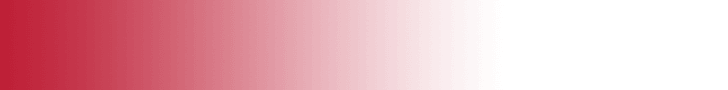
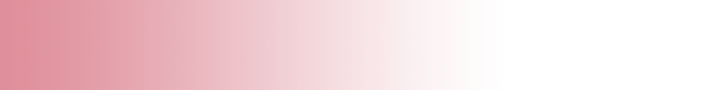
upload DSF_2017/Africa/728x90_EN_new

diff --git a/DSF_2017/Africa/728x90_EN_new/index.html b/DSF_2017/Africa/728x90_EN_new/index.html
@@ -8,15 +8,23 @@
     <script src="https://cdnjs.cloudflare.com/ajax/libs/gsap/1.18.0/TweenMax.min.js"></script>
     <link rel="stylesheet" href="styles.css" />
     <script type="text/javascript">
+    	var LENGTH = 10;
 	    var clickTag = '';
 
-	    var cft2 = [],
-	    	cft1 = [],
-	    	i = 0,
-	    	startTime = 0,
-	    	duration = 0,
-	    	lastLeft = 0,
-	    	lastTop = 0;
+	    var i = 0,
+	    		cftArr = [],
+	    		posArr = [
+	    			{x:130, y:60},
+	    			{x:187, y:-59},
+	    			{x:94, y:-59},
+	    			{x:84, y:60},
+	    			{x:129, y:55},
+	    			{x:208, y:27},
+	    			{x:77, y:10},
+	    			{x:171, y:32},
+	    			{x:56, y:24},
+	    			{x:98, y:12}
+	    		];
 
 	    var tl = new TimelineLite();
 
@@ -26,31 +34,26 @@
 
 	    function init() {
 
-	    	for (i=1; i<=7; i++) {
-	    		cft1[i-1] = document.getElementById('cft1_'+i);
+	    	for (i=0; i<LENGTH; i++) {
+	    		cftArr[i] = document.getElementById('confetti_'+ (i+1));
+	    		cftArr[i].style.left = posArr[i].x + 100 + 'px';
+	    		cftArr[i].style.top = posArr[i].y + 'px';
+	    		// cftArr[i].style.transform = "rotate(" + Math.round(Math.random()*120 - 60) + "deg)";
 	    	}
 
-	    	for (i=1; i<=22; i++) {
-	    		cft2[i-1] = document.getElementById('cft2_'+i);
+	    	tl.to(text1, 0.5, {autoAlpha: 1, ease: Power2.easeInOut})
+	    		.to(text1, 0.5, {autoAlpha: 0, delay: 2, ease: Power2.easeInOut})
+	    		.to(text2, 0.5, {autoAlpha: 1, left: 0, ease: Power2.easeInOut});
+
+	    	for (i=0; i<cftArr.length; i++) {
+          tl.to(cftArr[i], 0.5, {autoAlpha:0.8, scale:1, left:posArr[i].x, top:posArr[i].y, ease:Power2.easeOut}, '-=0.2');
+	    		tl.to(cftArr[i], 0.5, {rotation: 0, ease:Power2.easeOut}, '-=0.5');
 	    	}
 
-	    	tl.to(text1, 0.5, {autoAlpha: 1, ease: Power3.easeInOut})
-	    		.to(text1, 0.5, {autoAlpha: 0, delay: 2, ease: Power3.easeInOut})
-	    		.to(text2, 0.5, {autoAlpha: 1, left: 0, ease: Power3.easeInOut})
-	    		.to(text2, 0.5, {autoAlpha: 0, delay: 2, ease: Power3.easeInOut})
-	    		.to(mask, 0.5, {autoAlpha: 1, ease: Power3.easeInOut})
-	    		.to(logo, 0.5, {autoAlpha: 1, ease: Power3.easeInOut}, "+=1")
-	    		.to(text3, 0.5, {autoAlpha: 1, ease: Power3.easeInOut, onComplete:onLoop});
-
-
-	    	for (i=0; i<cft1.length; i++) {
-	    		tl.to(cft1[i], 0.2, {autoAlpha:1, ease: Power3.easeInOut}, (3.5 + 0.15*i));
-	    		tl.to(cft1[i], 0.2, {autoAlpha:0, ease: Power3.easeInOut}, (6));
-	    	}
-
-	    	for (i=0; i<cft2.length; i++) {
-	    		tl.to(cft2[i], 0.2, {autoAlpha:1, ease: Power3.easeInOut}, (6.5 + 0.15*i));
-	    	}
+	    	tl.to(text2, 0.5, {autoAlpha: 0, ease: Power2.easeInOut})
+	    		.to([mask,redBg], 0.5, {autoAlpha: 1, ease: Power2.easeInOut})
+	    		.to(logo, 0.5, {autoAlpha: 1, ease: Power3.easeInOut})
+	    		.to(text3, 0.5, {autoAlpha: 1, left:0, ease: Power2.easeInOut, onComplete:onLoop});
 	    }
 
 	    function restart() {
@@ -77,40 +80,18 @@
 <body>
     <div id="banner">
         <a class="click-tag" href="javascript:window.open(window.clickTag)" target="_blank">
+            <div id="redBg" class="layer"></div>
+            <div id="confetti_1" class="confetties"><img src="confetti_1.png"></div>
+            <div id="confetti_2" class="confetties"><img src="confetti_2.png"></div>
+            <div id="confetti_3" class="confetties"><img src="confetti_3.png"></div>
+            <div id="confetti_4" class="confetties"><img src="confetti_4.png"></div>
+            <div id="confetti_5" class="confetties"><img src="confetti_5.png"></div>
+            <div id="confetti_6" class="confetties"><img src="confetti_6.png"></div>
+            <div id="confetti_7" class="confetties"><img src="confetti_7.png"></div>
+            <div id="confetti_8" class="confetties"><img src="confetti_8.png"></div>
+            <div id="confetti_9" class="confetties"><img src="confetti_9.png"></div>
+            <div id="confetti_10" class="confetties"><img src="confetti_10.png"></div>
             <div id="mask" class="layer"></div>
-            <div id="cft1_1" class="layer"></div>
-            <div id="cft1_2" class="layer"></div>
-            <div id="cft1_3" class="layer"></div>
-            <div id="cft1_4" class="layer"></div>
-            <div id="cft1_5" class="layer"></div>
-            <div id="cft1_6" class="layer"></div>
-            <div id="cft1_7" class="layer"></div>
-
-            <div id="cft2_1" class="layer confetti"></div>
-            <div id="cft2_2" class="layer confetti"></div>
-            <div id="cft2_3" class="layer confetti"></div>
-            <div id="cft2_4" class="layer confetti"></div>
-            <div id="cft2_5" class="layer confetti"></div>
-            <div id="cft2_6" class="layer confetti"></div>
-            <div id="cft2_7" class="layer confetti"></div>
-            <div id="cft2_8" class="layer confetti"></div>
-            <div id="cft2_9" class="layer confetti"></div>
-            <div id="cft2_10" class="layer confetti"></div>
-            <div id="cft2_10" class="layer confetti"></div>
-            <div id="cft2_11" class="layer confetti"></div>
-            <div id="cft2_12" class="layer confetti"></div>
-            <div id="cft2_13" class="layer confetti"></div>
-            <div id="cft2_14" class="layer confetti"></div>
-            <div id="cft2_15" class="layer confetti"></div>
-            <div id="cft2_16" class="layer confetti"></div>
-            <div id="cft2_17" class="layer confetti"></div>
-            <div id="cft2_18" class="layer confetti"></div>
-            <div id="cft2_19" class="layer confetti"></div>
-            <div id="cft2_20" class="layer confetti"></div>
-            <div id="cft2_21" class="layer confetti"></div>
-            <div id="cft2_22" class="layer confetti"></div>
-            <div id="cft2_23" class="layer confetti"></div>
-
             <div id="text1" class="layer"></div>
             <div id="text2" class="layer"></div>
             <div id="text3" class="layer"></div>

diff --git a/DSF_2017/Africa/728x90_EN_new/styles.css b/DSF_2017/Africa/728x90_EN_new/styles.css
@@ -31,95 +31,24 @@ a {
   right: 0;
   bottom: 0;
 }
-#cft1_1 {
-  background: url("f2_1.png") center no-repeat;
-}
-#cft1_2 {
-  background: url("f2_2.png") center no-repeat;
-}
-#cft1_3 {
-  background: url("f2_3.png") center no-repeat;
-}
-#cft1_4 {
-  background: url("f2_4.png") center no-repeat;
-}
-#cft1_5 {
-  background: url("f2_5.png") center no-repeat;
-}
-#cft1_6 {
-  background: url("f2_6.png") center no-repeat;
-}
-#cft1_7 {
-  background: url("f2_7.png") center no-repeat;
-}
 
+.confetties {
+  position: absolute;
+  top: 0;
+  left: 0;
+  padding: 0;
+  margin: 0;
+  opacity: 0;
 
-#cft2_1 {
-  background: url("f3_1.png") center no-repeat;
-}
-#cft2_2 {
-  background: url("f3_2.png") center no-repeat;
-}
-#cft2_3 {
-  background: url("f3_3.png") center no-repeat;
-}
-#cft2_4 {
-  background: url("f3_4.png") center no-repeat;
-}
-#cft2_5 {
-  background: url("f3_5.png") center no-repeat;
-}
-#cft2_6 {
-  background: url("f3_6.png") center no-repeat;
-}
-#cft2_7 {
-  background: url("f3_7.png") center no-repeat;
-}
-#cft2_8 {
-  background: url("f3_8.png") center no-repeat;
-}
-#cft2_9 {
-  background: url("f3_9.png") center no-repeat;
-}
-#cft2_10 {
-  background: url("f3_10.png") center no-repeat;
-}
-#cft2_11 {
-  background: url("f3_11.png") center no-repeat;
-}
-#cft2_12 {
-  background: url("f3_12.png") center no-repeat;
-}
-#cft2_13 {
-  background: url("f3_13.png") center no-repeat;
-}
-#cft2_14 {
-  background: url("f3_14.png") center no-repeat;
-}
-#cft2_15 {
-  background: url("f3_15.png") center no-repeat;
-}
-#cft2_16 {
-  background: url("f3_16.png") center no-repeat;
-}
-#cft2_17 {
-  background: url("f3_17.png") center no-repeat;
-}
-#cft2_18 {
-  background: url("f3_18.png") center no-repeat;
-}
-#cft2_19 {
-  background: url("f3_19.png") center no-repeat;
-}
-#cft2_20 {
-  background: url("f3_20.png") center no-repeat;
-}
-#cft2_21 {
-  background: url("f3_21.png") center no-repeat;
-}
-#cft2_22 {
-  background: url("f3_22.png") center no-repeat;
-}
+  transform: rotate(30deg) scale(0.1);
+  -ms-transform: rotate(30deg) scale(0.1);
+  -webkit-transform: rotate(30deg) scale(0.1);
+
+/*  transform: rotate(60deg);
+  -ms-transform: rotate(60deg);
+  -webkit-transform: rotate(60deg);
+*/}
+
 #logo_dubai {
   background: url("logo_dubai.png") center no-repeat;
   opacity: 1;
@@ -133,9 +62,13 @@ a {
 }
 #text3 {
   background: url("text3.png") center no-repeat;
+  left: -30px;
 }
 #mask {
   background: url("mask.png") center no-repeat;
+}
+#redBg {
+  background: url("redBg.png") center no-repeat;
 }
 #logo {
   background: url("logo.png") center no-repeat;
